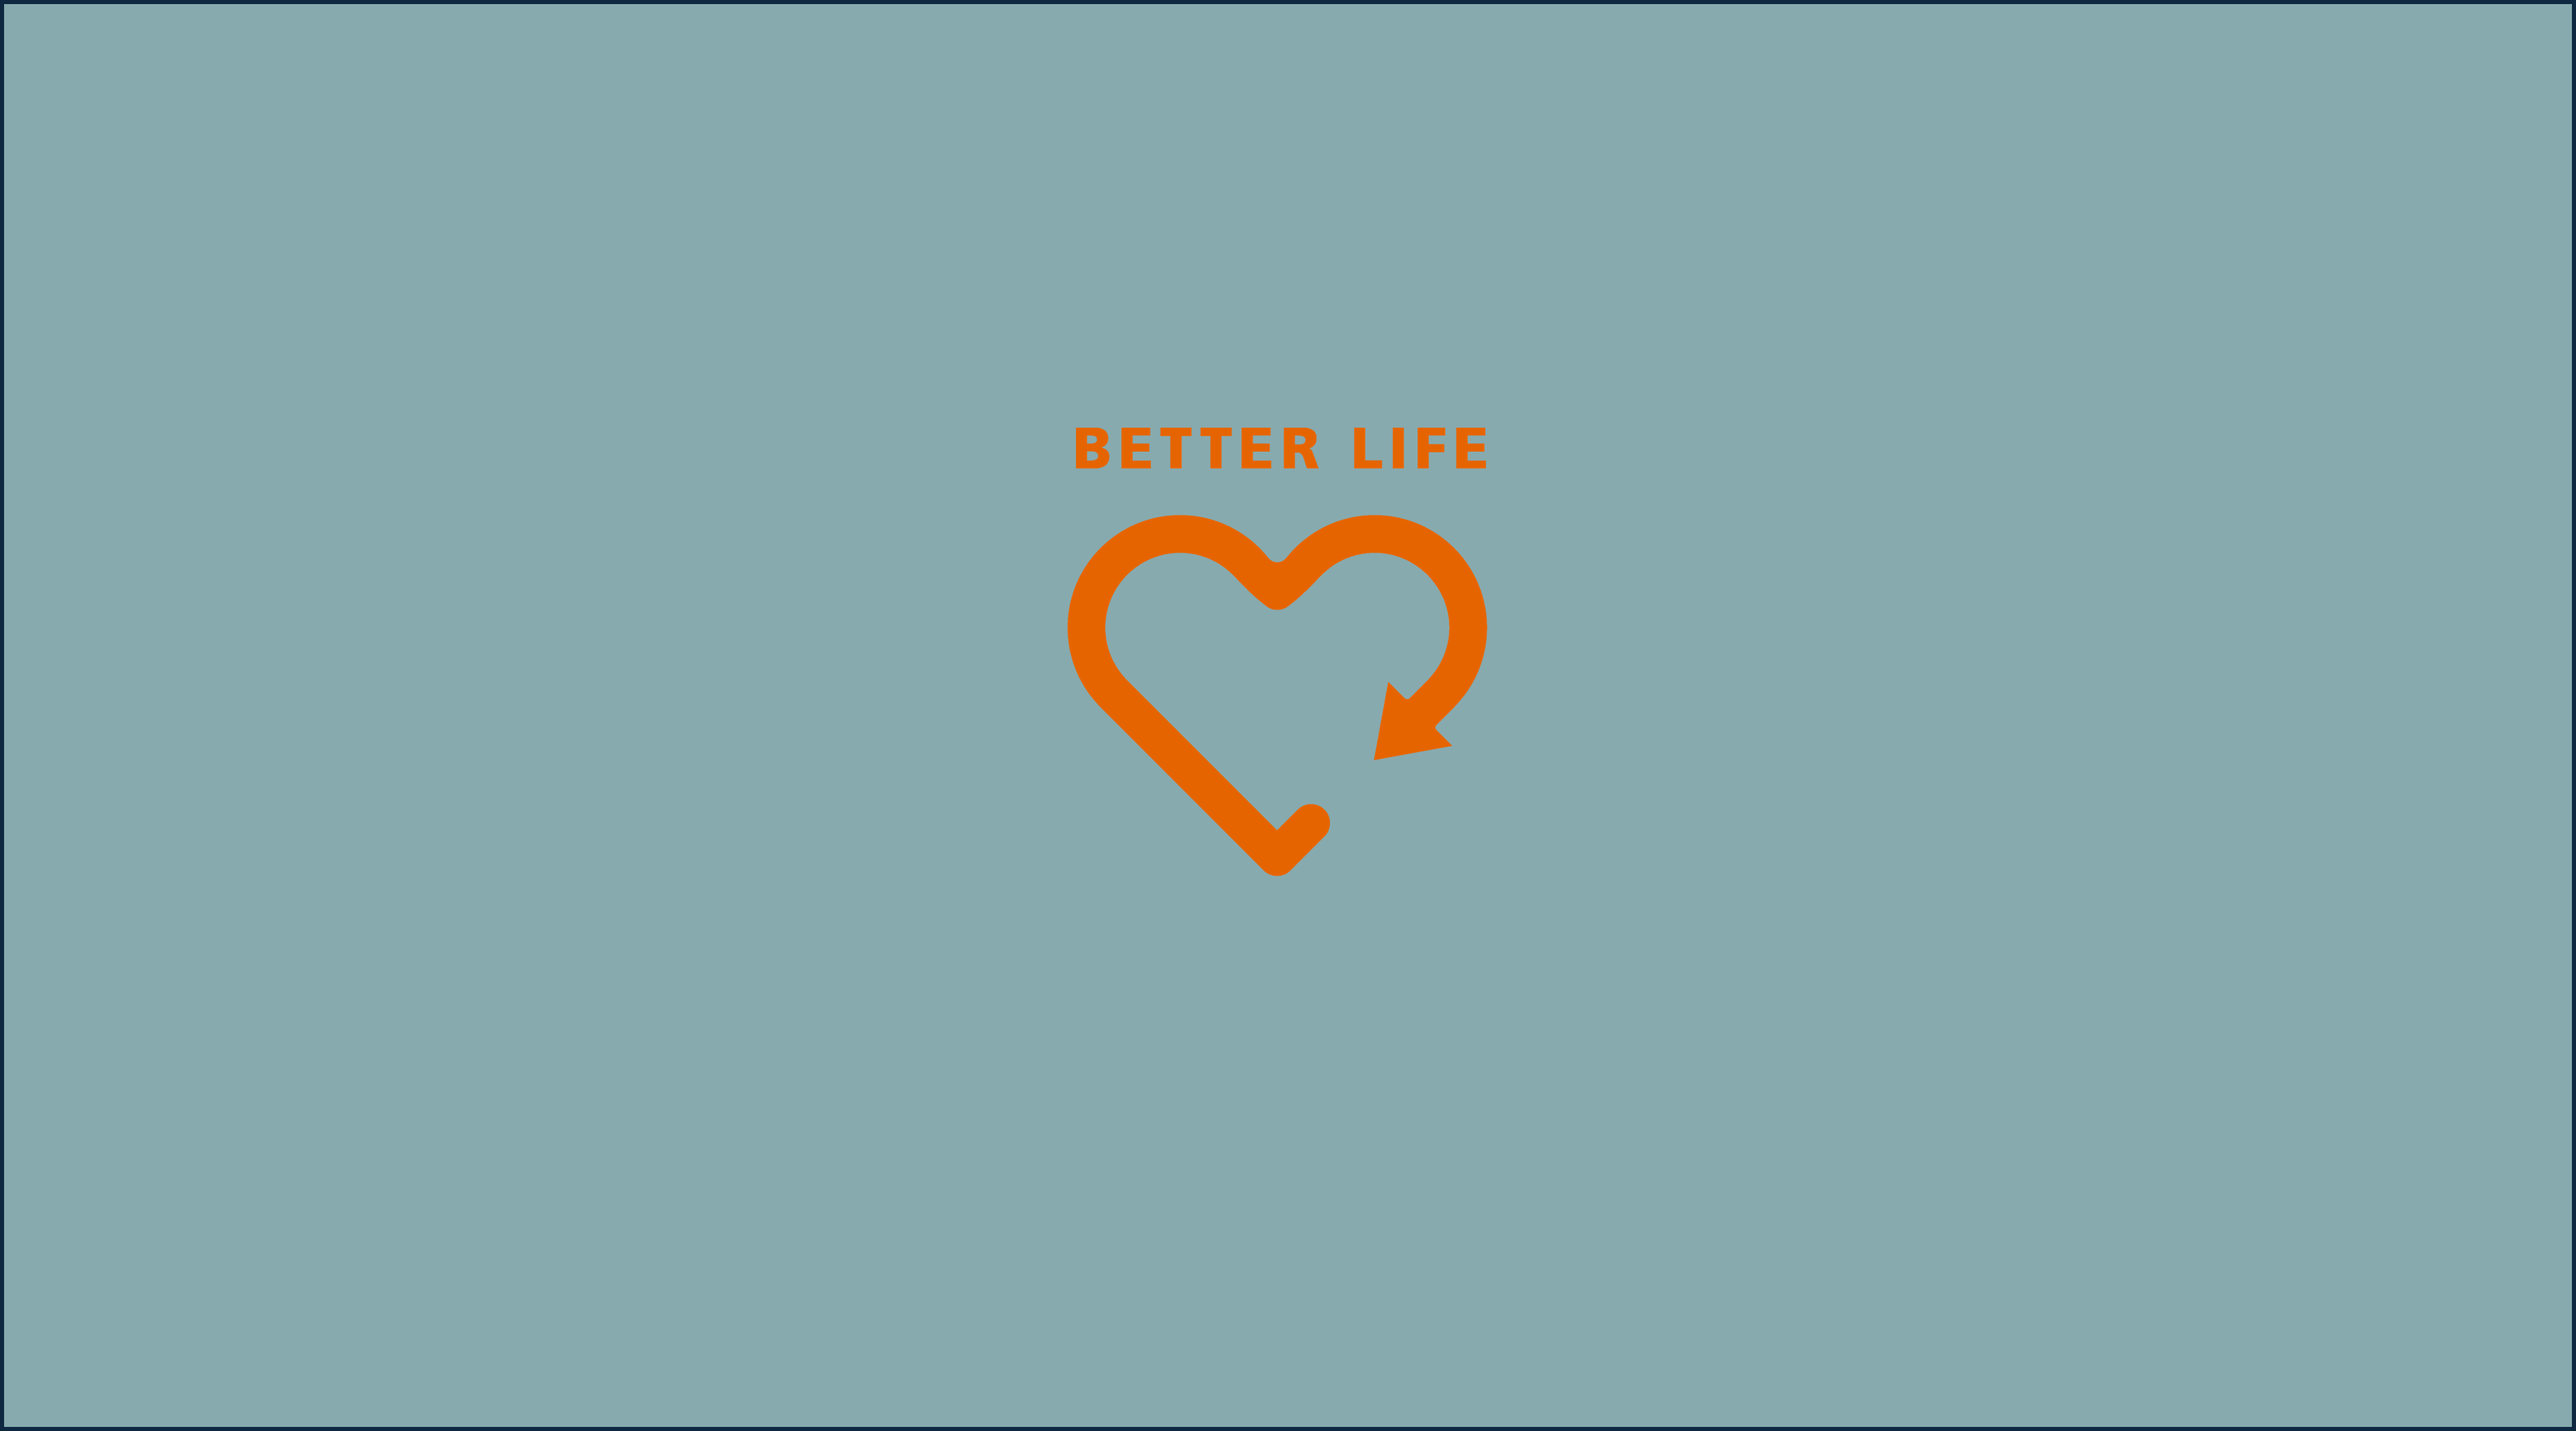
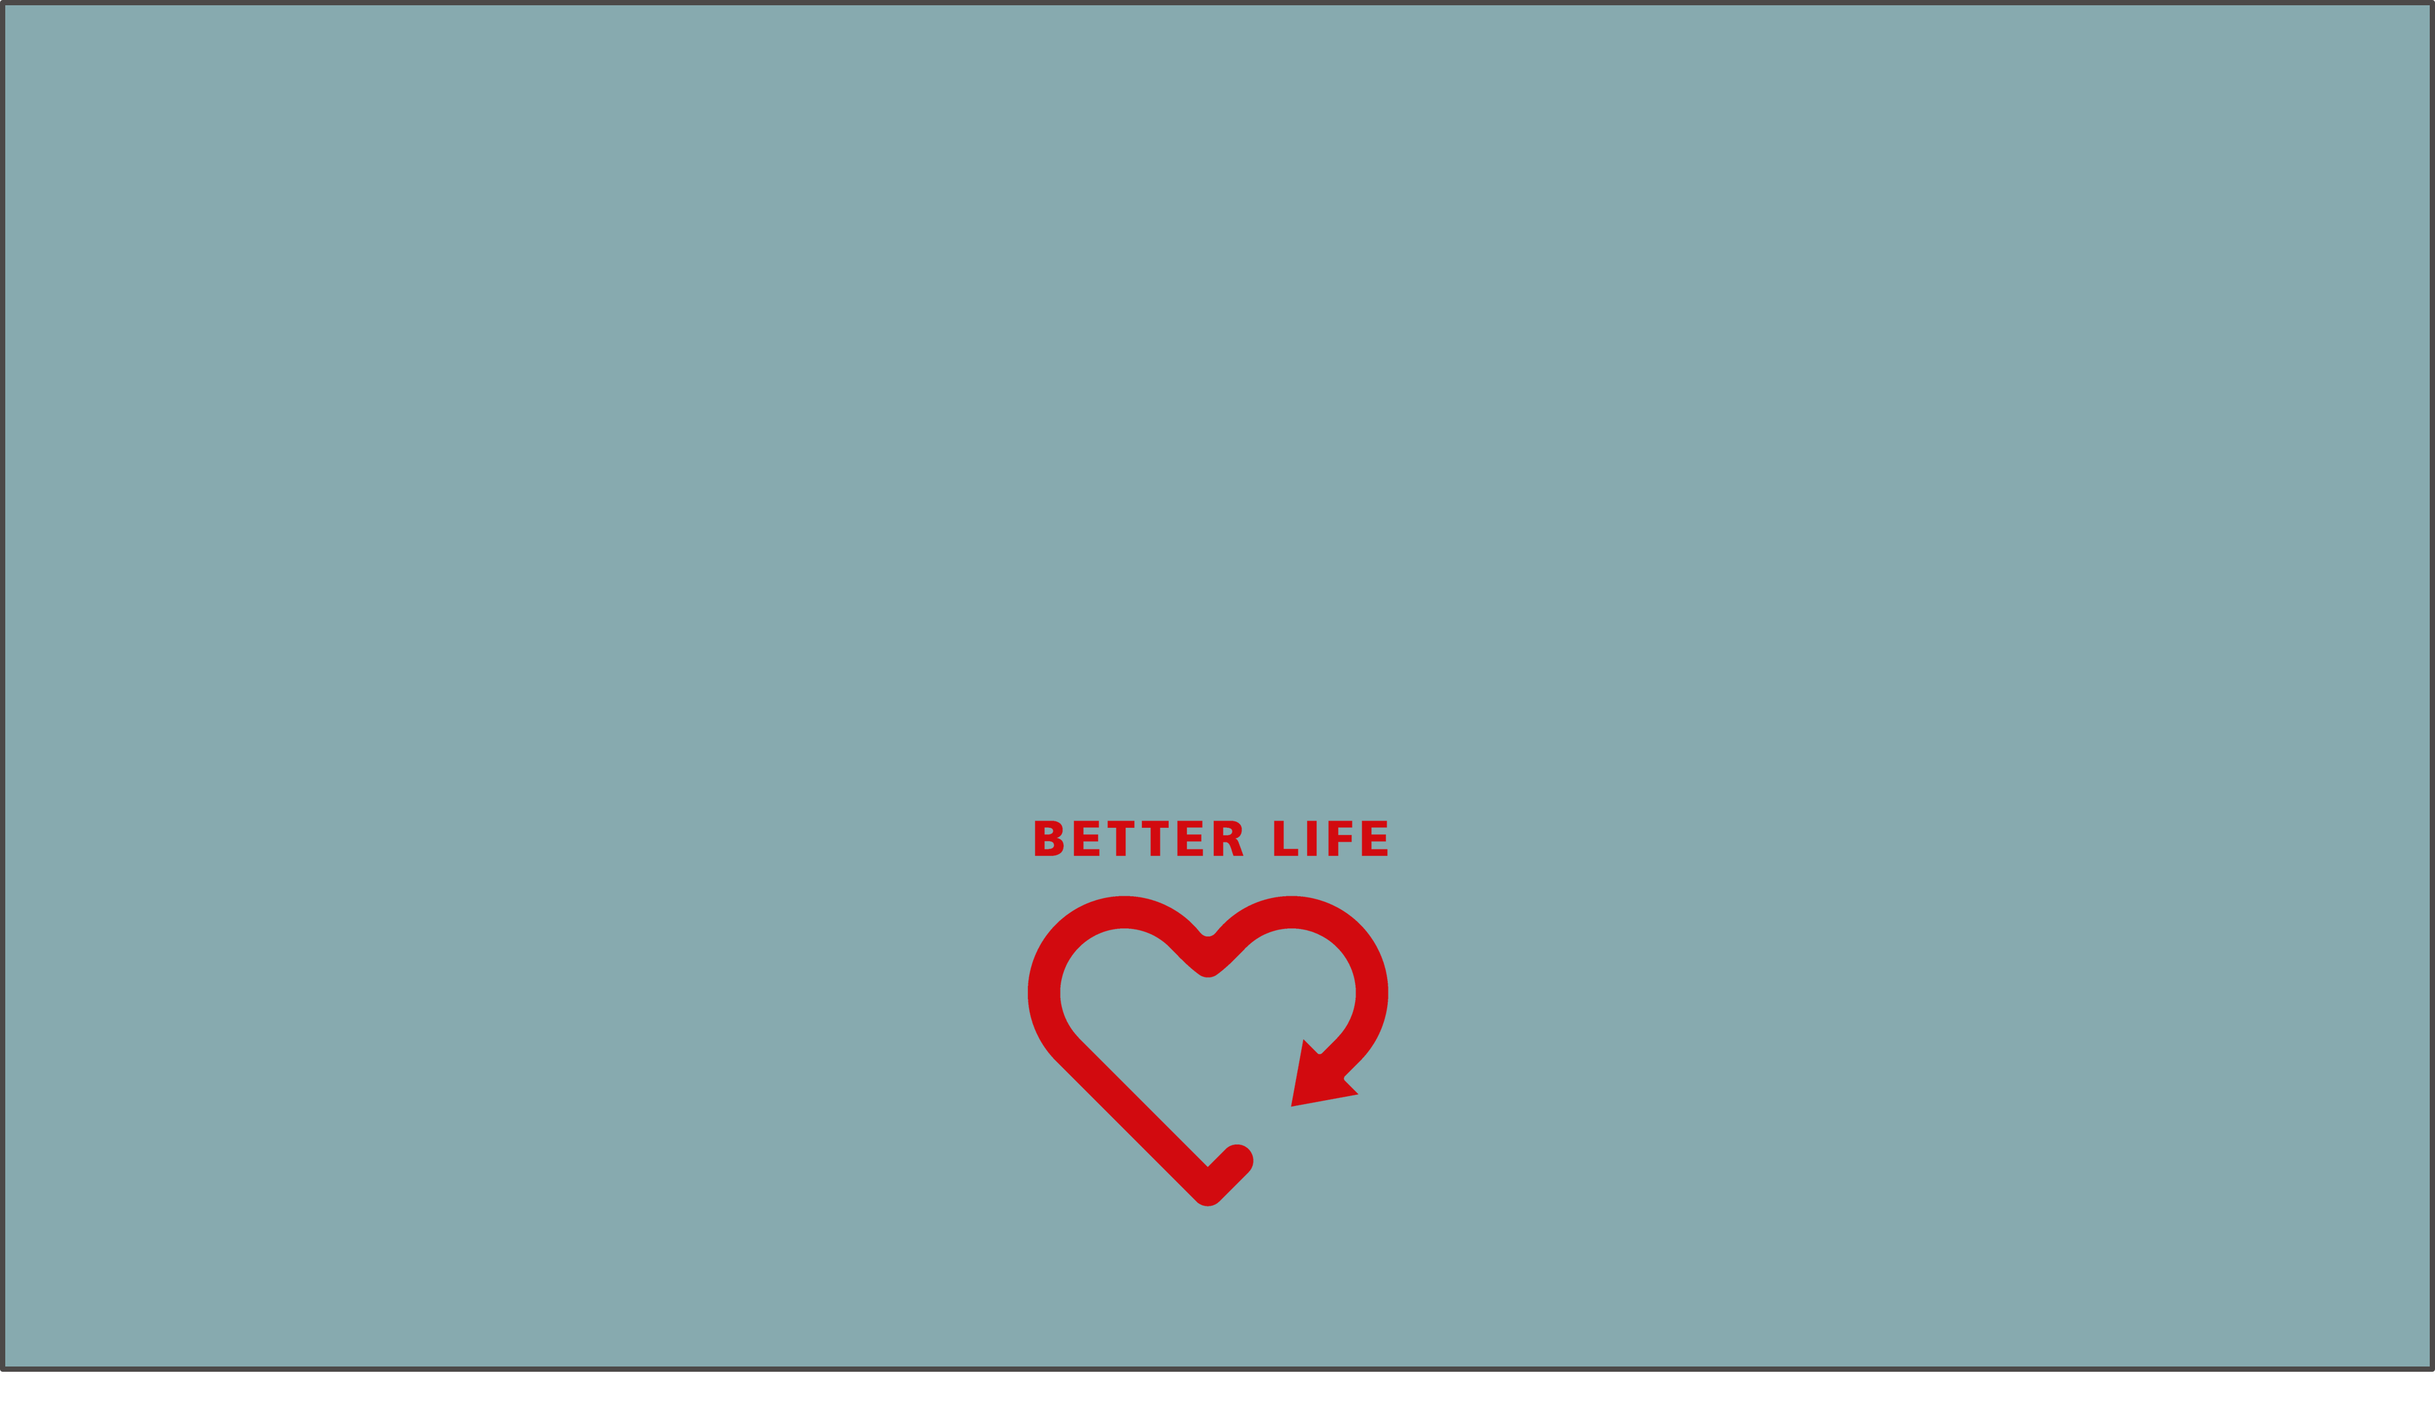
155

Changed region(s): [[0.0, 0.0, 1.0, 1.0], [0.4056, 0.2787, 0.5928, 0.8671]]

diff --git a/public/css/user.css b/public/css/user.css
@@ -103,10 +103,9 @@ body.event-page {
   margin-top: 20px;
   width: 90%;
   max-width: 600px;
-  position: absolute;
-  top: 50%;
-  left: 50%;
-  transform: translate(-50%, -50%);
+  position: relative;
+  top: auto;
+  margin-top: 100px;
 }
 
 /* 点击式Event卡片 */
